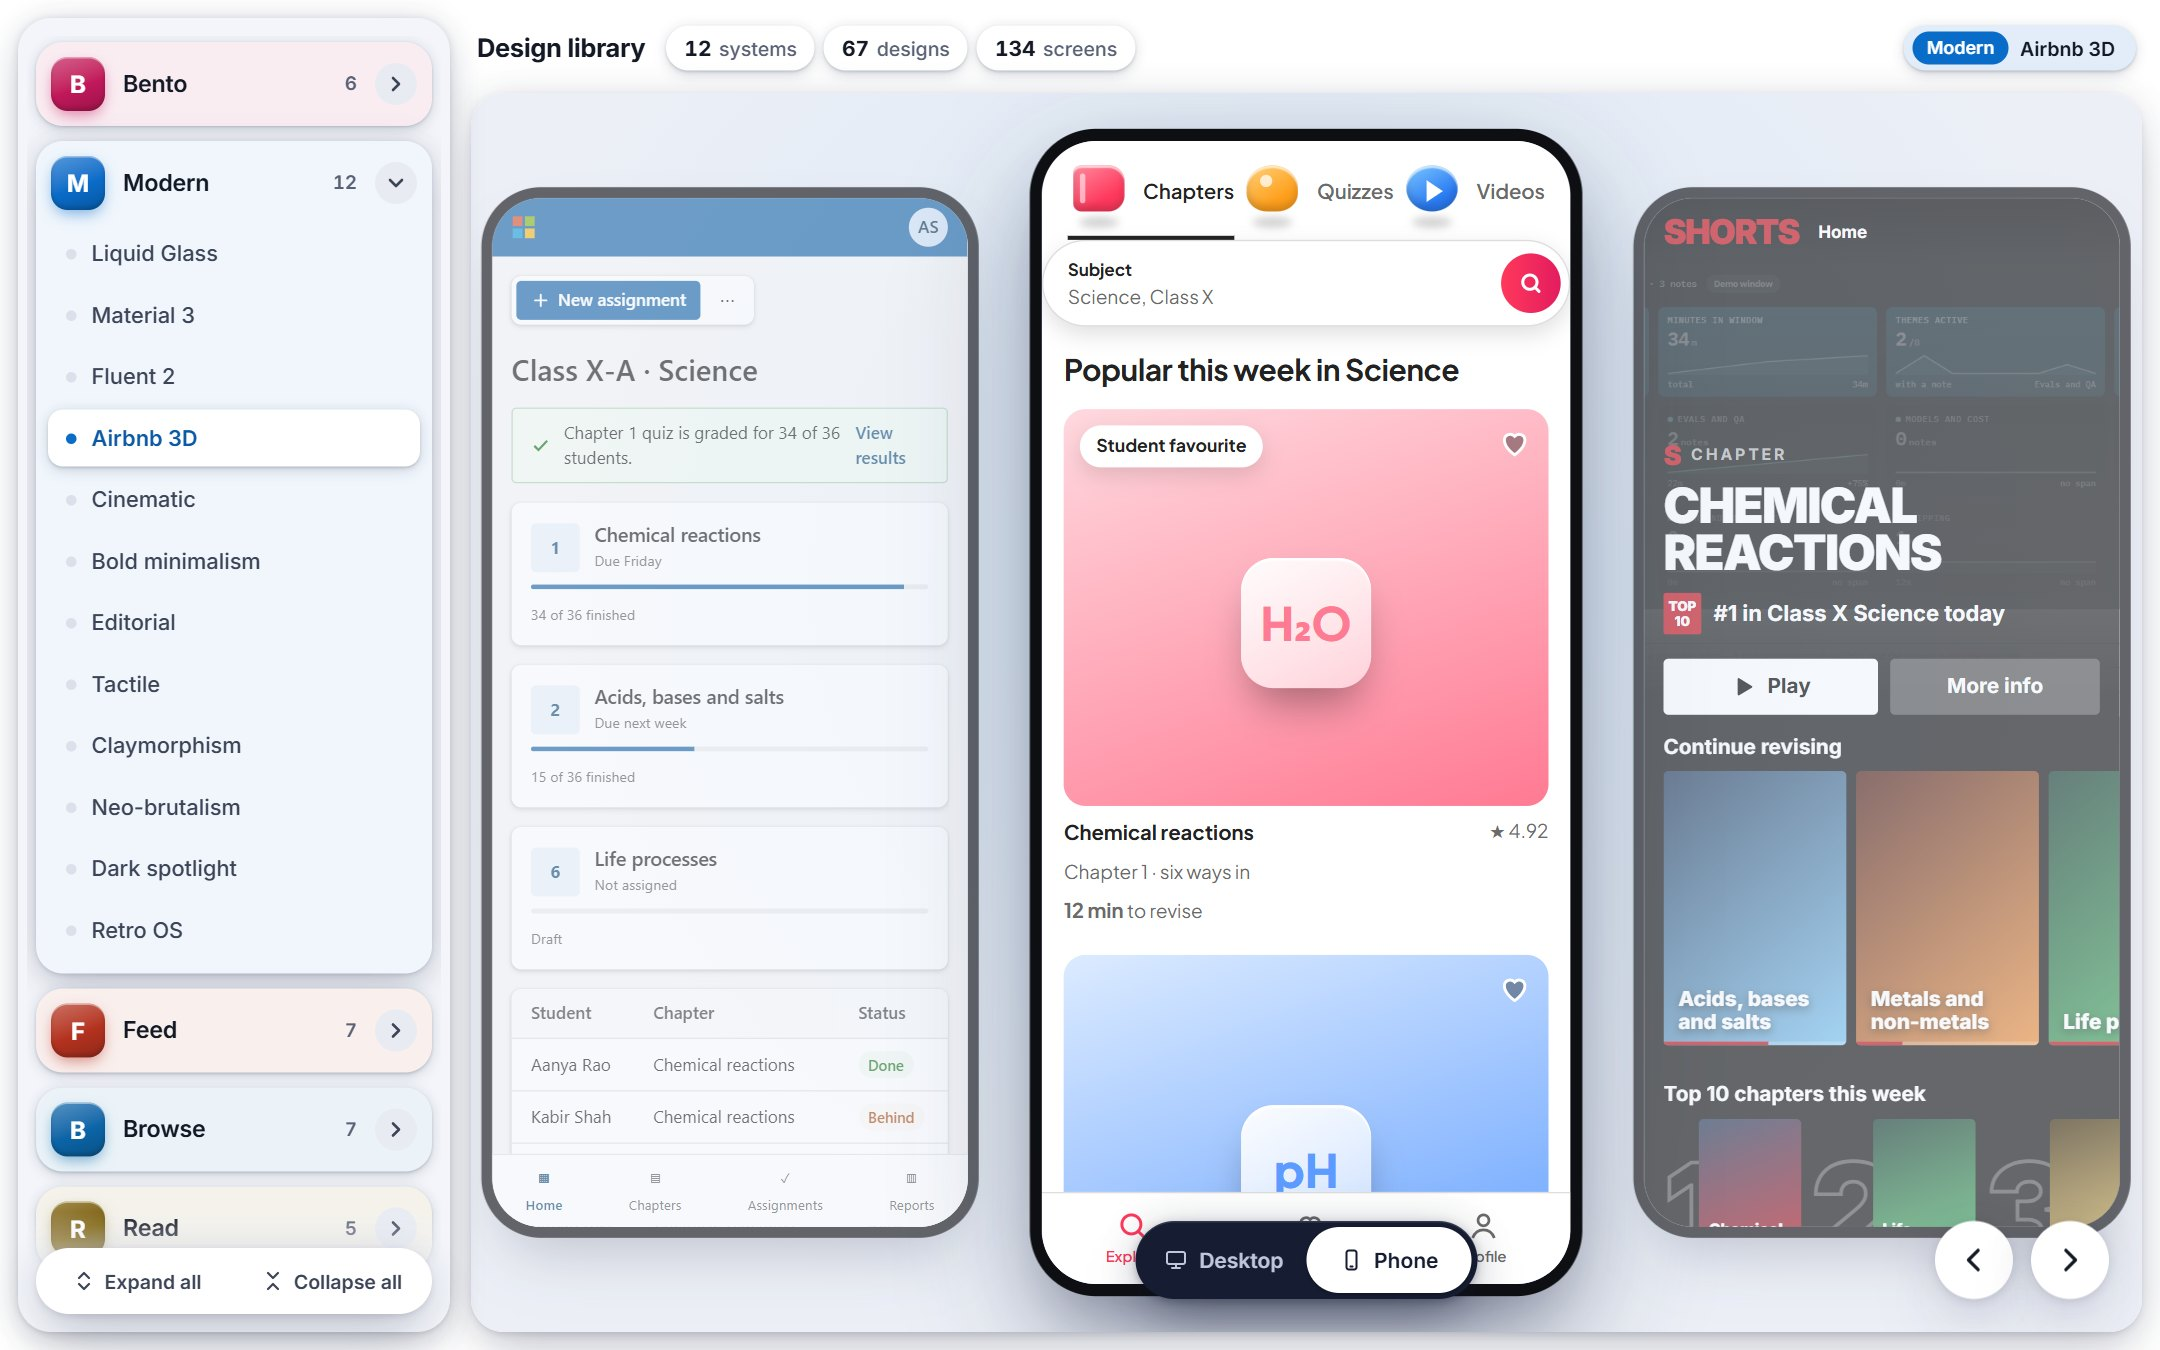
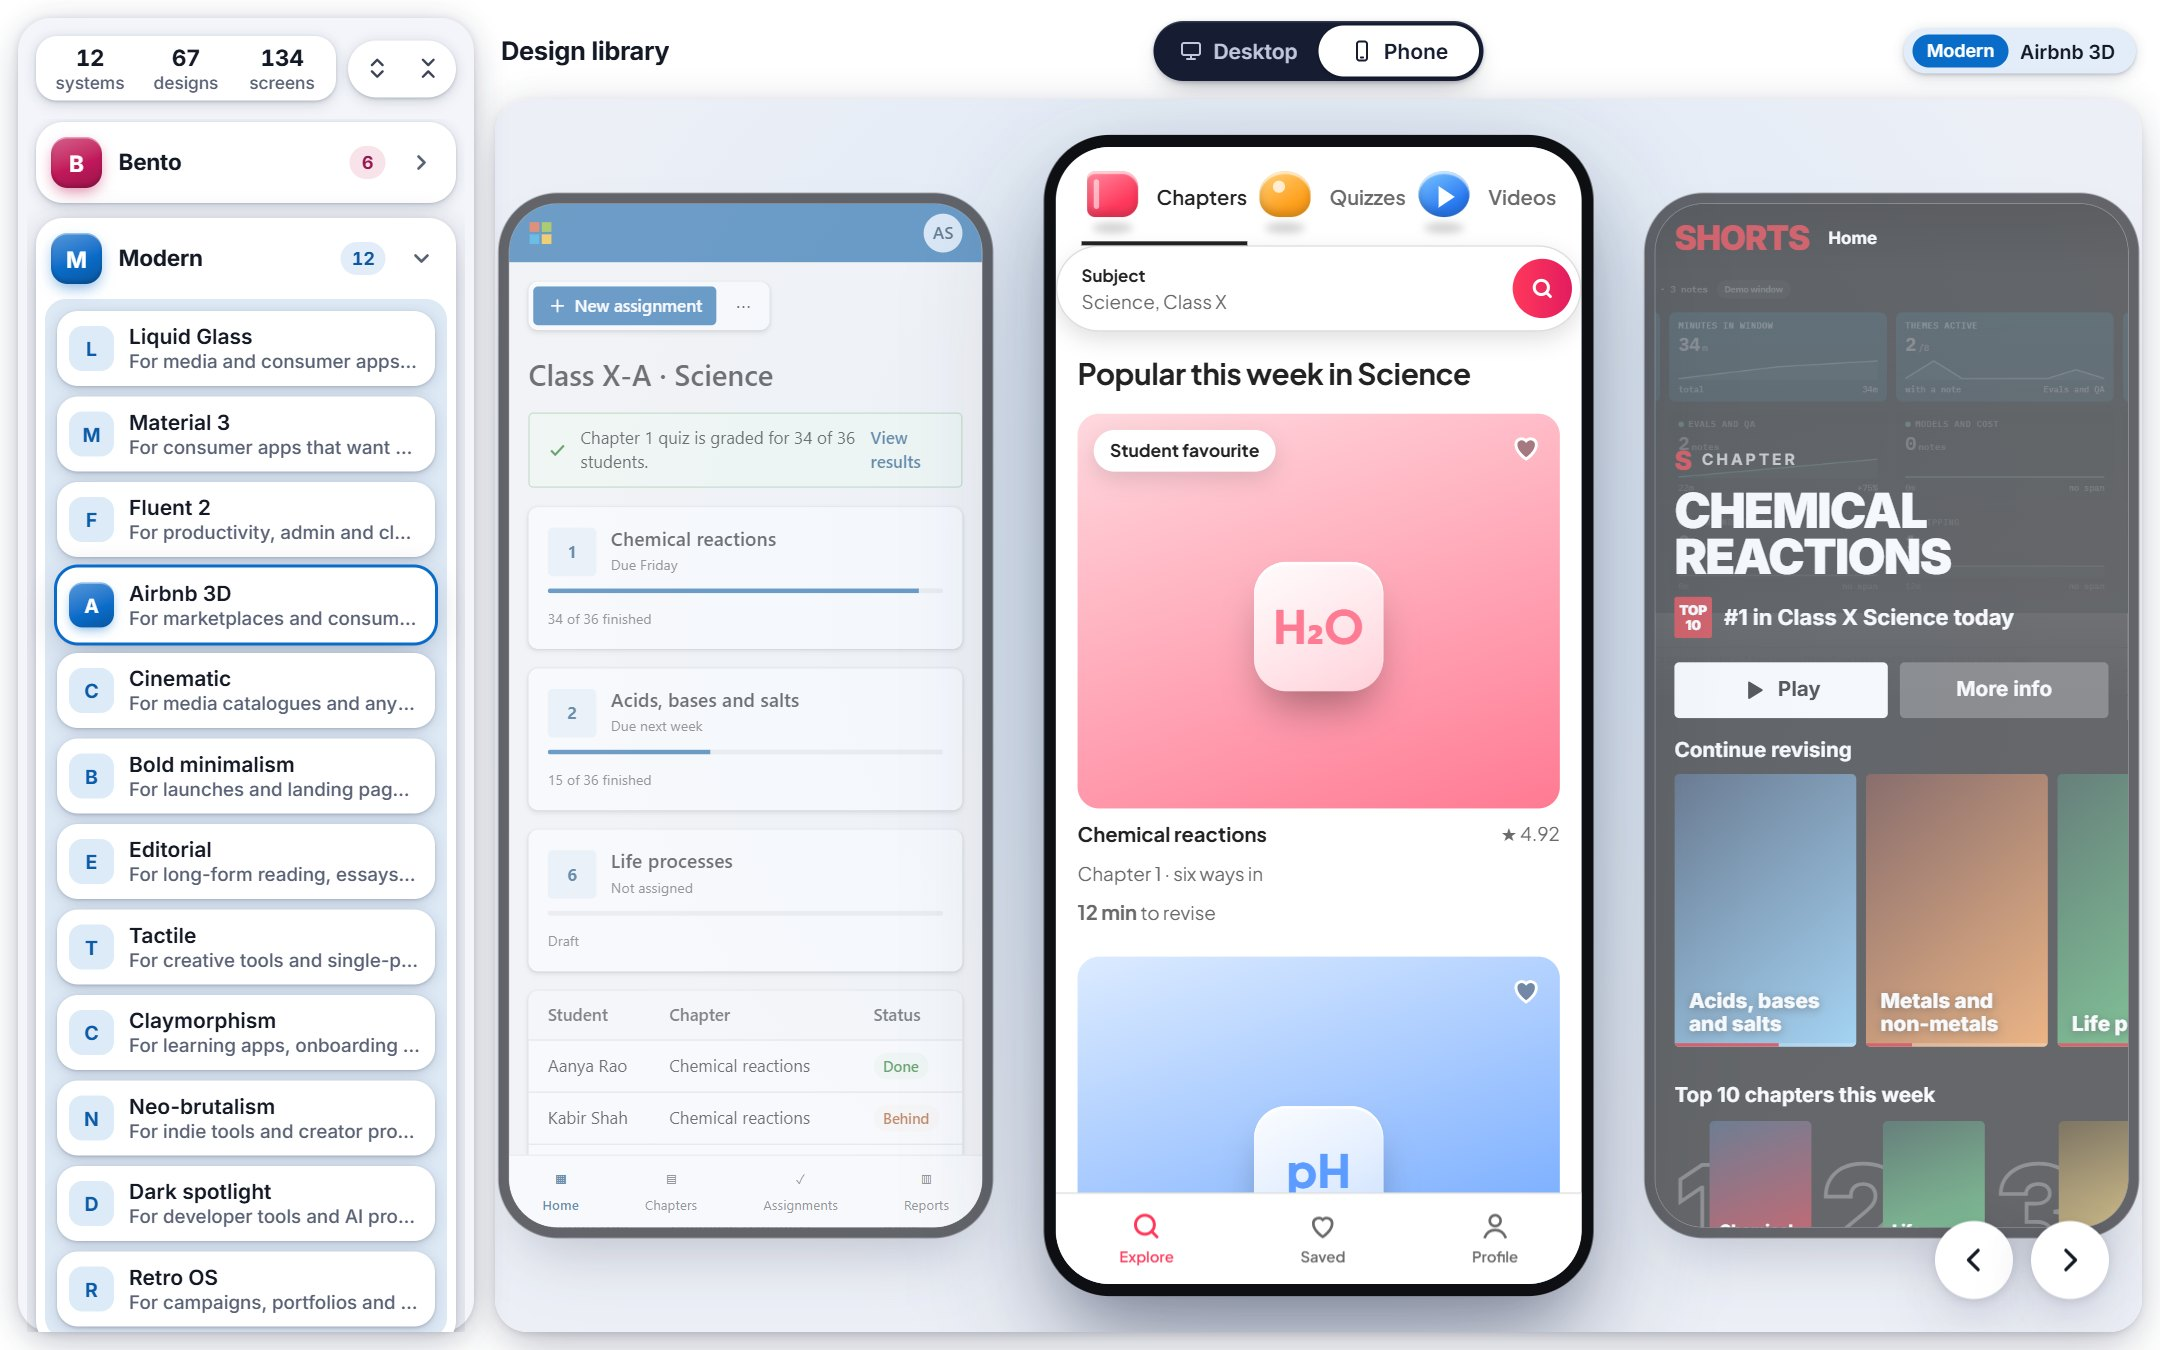
New panel and top bar: words and pictures

diff --git a/README.md b/README.md
@@ -107,10 +107,10 @@ One design per screen: swipe up for the next. The systems run along the bottom; 
 
 | Where | What it is | What to do with it |
 |---|---|---|
-| The strip at the top | The library in three numbers, and the design showing now | A quick sense of what is there, and where you are |
-| Desktop / Phone, floating over the design | The width the design is shown at | Check both before you choose |
-| Expand all / Collapse all, floating at the foot of the panel | Opens or closes every system card | Scan everything, or keep the panel short |
-| A system card | A family of designs that share a shape | Open it to see its designs; hover it for what it is for |
+| Top of the panel | The library in three numbers, and two small buttons that open or close every system | A quick sense of what is there |
+| Desktop / Phone, at the top centre | The width the design is shown at | Check both before you choose |
+| A system card | A family of designs that share a shape | Open it: each design inside is its own card, with what it is for |
+| Top right | The design showing now | Where you are |
 | The stage | The chosen design, filling the window | Scroll it, click it, judge it |
 | The round arrows | The previous and next design | Step through the library without the panel |
 
